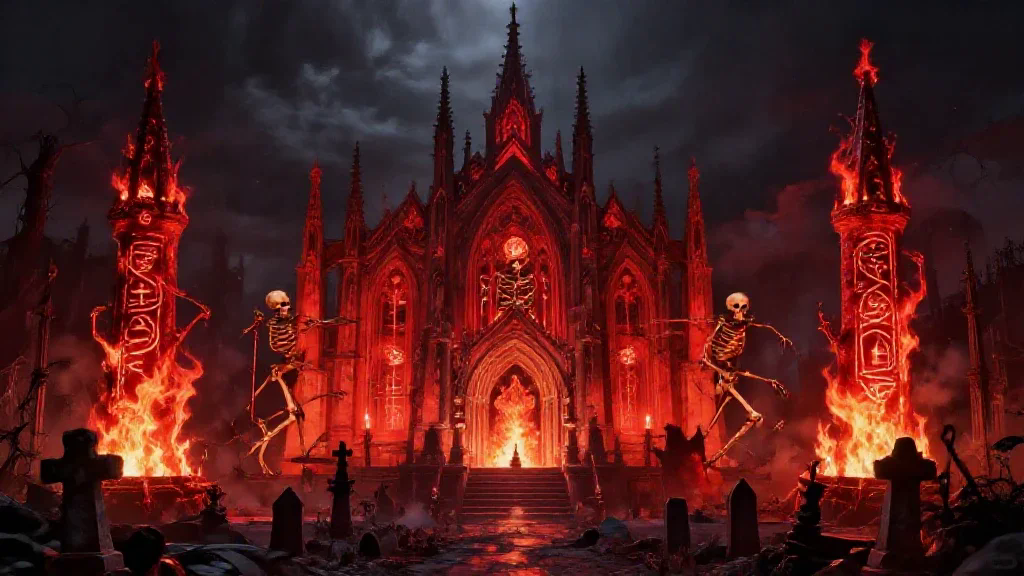
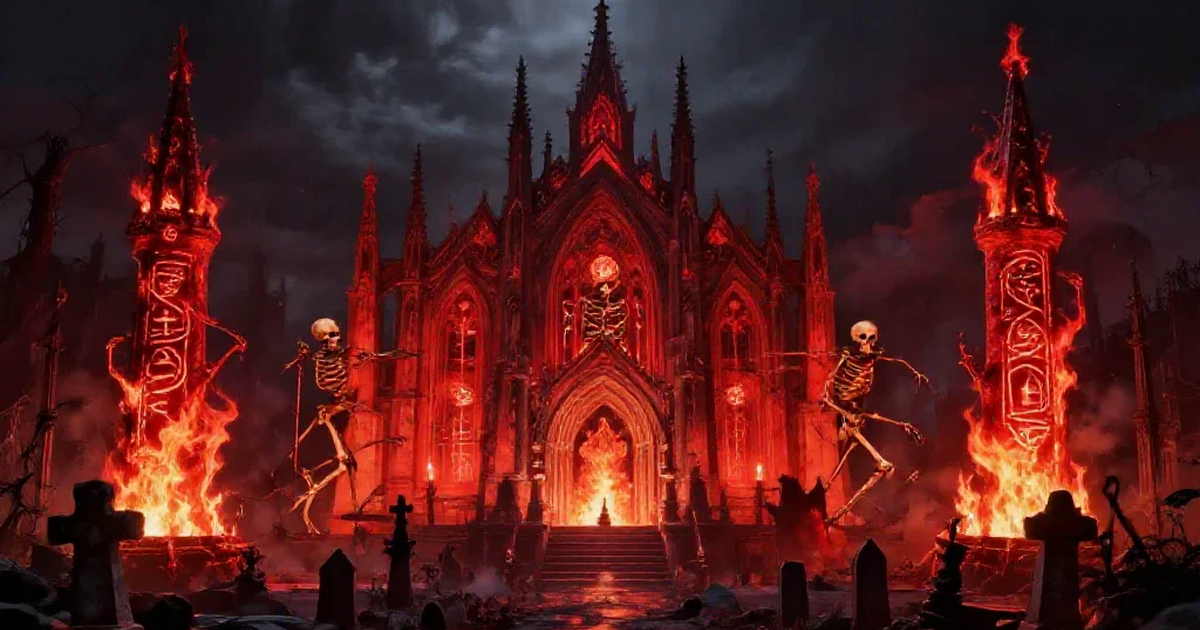
Open Graph : image 1200 x 630 et metadonnees completes

diff --git a/index.html b/index.html
@@ -9,13 +9,17 @@
     <meta property="og:type" content="website" />
     <meta property="og:title" content="Cimetière Ardent : Le Dernier Fanal : Les morts détestent les étincelles" />
     <meta property="og:description" content="Cimetière Ardent : défense de sanctuaire et survie tactique d'Halloween. Choisis ton héros, débloque des reliques et éradique les vagues de créatures des tombes." />
-    <meta property="og:image" content="https://games.hylst.fr/cimetiereardent/og-image.png" />
+    <meta property="og:image" content="https://games.hylst.fr/cimetiereardent/og-image.png?v=2" />
+    <meta property="og:image:type" content="image/png" />
+    <meta property="og:image:width" content="1200" />
+    <meta property="og:image:height" content="630" />
+    <meta property="og:image:alt" content="Cimetière Ardent" />
     <meta property="og:url" content="https://games.hylst.fr/cimetiereardent/" />
     <meta property="og:site_name" content="Hylst.Games" />
     <meta name="twitter:card" content="summary_large_image" />
     <meta name="twitter:title" content="Cimetière Ardent : Le Dernier Fanal : Les morts détestent les étincelles" />
     <meta name="twitter:description" content="Cimetière Ardent : défense de sanctuaire et survie tactique d'Halloween. Choisis ton héros, débloque des reliques et éradique les vagues de créatures des tombes." />
-    <meta name="twitter:image" content="https://games.hylst.fr/cimetiereardent/og-image.png" />
+    <meta name="twitter:image" content="https://games.hylst.fr/cimetiereardent/og-image.png?v=2" />
     <meta name="robots" content="index, follow" />
     <link rel="canonical" href="https://games.hylst.fr/cimetiereardent/" />
     <link rel="icon" type="image/png" href="favicon.png" />
